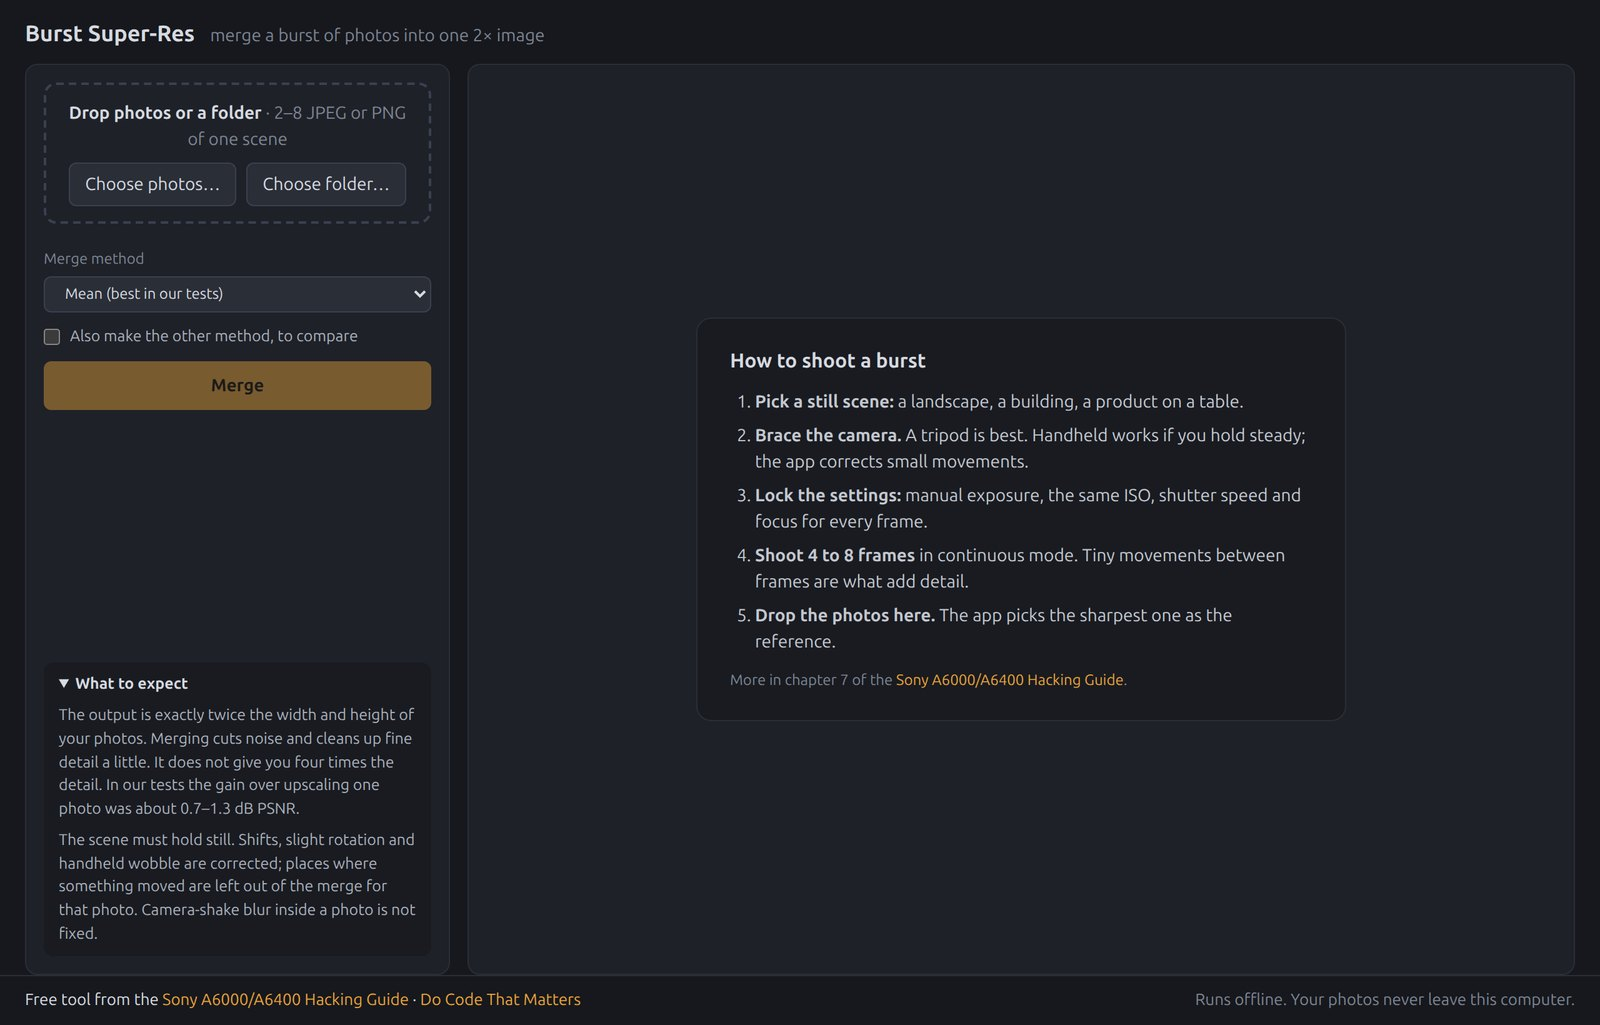
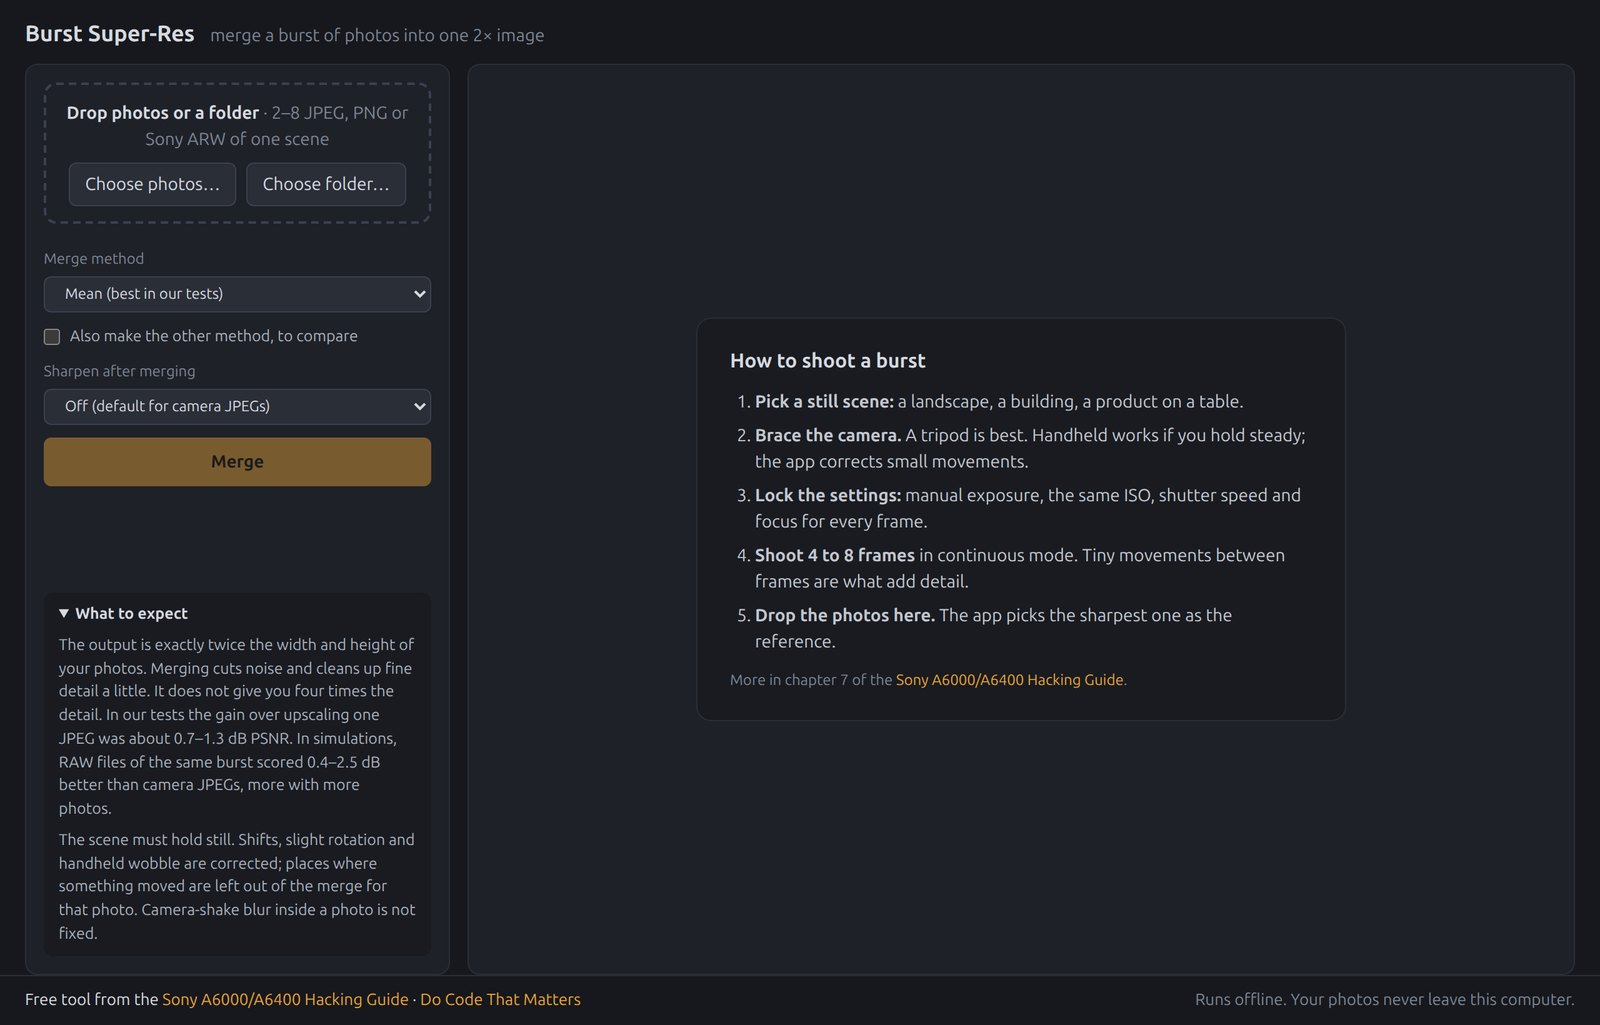
v0.3.0: RAW in README, sharpen/brightness/RAW measurements, screenshots

Changed region(s): [[0.0, 0.3434, 0.2812, 0.4995], [0.0312, 0.5932, 0.25, 0.8117], [0.0312, 0.0937, 0.25, 0.1561]]

diff --git a/tools/arw-encode.js b/tools/arw-encode.js
@@ -73,8 +73,7 @@ const full = RAW.demosaic(lin, info.width, info.height, info.cfa);
 const scene = { width: W, height: H, data: new Float32Array(W * H * 3) };
 if (args.scene) {
   // sRGB photo -> linear -> camera space (inverse of the file's matrix) -> raw units (inverse WB/levels), 85% of full scale
-  const { execFileSync } = require('child_process');
-  const ppm = execFileSync('djpeg', ['-pnm', args.scene], { maxBuffer: 1 << 30 }), m = ppm.subarray(0, 64).toString('latin1').match(/^P6\s+(\d+)\s+(\d+)\s+255\s/);
+  const ppm = require('child_process').execFileSync('djpeg', ['-pnm', args.scene], { maxBuffer: 1 << 30 }), m = ppm.subarray(0, 64).toString('latin1').match(/^P6\s+(\d+)\s+(\d+)\s+255\s/);
   const pw = +m[1], off = m[0].length;
   const M = info.colorMatrix, det = M[0] * (M[4] * M[8] - M[5] * M[7]) - M[1] * (M[3] * M[8] - M[5] * M[6]) + M[2] * (M[3] * M[7] - M[4] * M[6]);
   const Mi = [(M[4] * M[8] - M[5] * M[7]) / det, (M[2] * M[7] - M[1] * M[8]) / det, (M[1] * M[5] - M[2] * M[4]) / det,
@@ -97,6 +96,8 @@ const at = (x, y, c) => {
   return (1 - fy) * ((1 - fx) * d[o] + fx * d[o + 3]) + fy * ((1 - fx) * d[o + W * 3] + fx * d[o + W * 3 + 3]);
 };
 const fw = W / 2, fh = H / 2, cfa = info.cfa, range = info.white - info.black[0];
+const { execFileSync } = require('child_process');
+let previewExposure = null;
 const shifts = [[0, 0]];
 for (let k = 1; k < N; k++) shifts.push([(rand() * 2 - 1) * 3, (rand() * 2 - 1) * 3]);
 
@@ -120,10 +121,18 @@ for (let k = 0; k < N; k++) {
     vals[y * fw + x] = Math.min(16383, Math.max(0, Math.round(v + info.black[(y & 1) * 2 + (x & 1)])));
   }
   const strip = encodeSonyARW2(vals, fw, fh, info.toneCurve);
-  const file = new Uint8Array(src.length + strip.length);
-  file.set(src); file.set(strip, src.length);
+  // new embedded preview (like the camera's): this frame rendered, 1/2 size, JPEG
+  const tmpInfo = { ...info, rawWidth: fw, rawHeight: fh, width: fw, height: fh };
+  const pv = RAW.render(vals, tmpInfo, { exposure: previewExposure ?? (previewExposure = RAW.autoExposure(vals, tmpInfo, 110)) });
+  const half = SR.resampleRegion(pv, { scale: 0.5, width: fw >> 1, height: fh >> 1 });
+  const head = Buffer.from(`P6\n${half.width} ${half.height}\n255\n`), rgb = Buffer.alloc(half.width * half.height * 3);
+  for (let i = 0, j = 0; j < rgb.length; i += 4, j += 3) { rgb[j] = half.data[i]; rgb[j + 1] = half.data[i + 1]; rgb[j + 2] = half.data[i + 2]; }
+  const jpg = execFileSync('cjpeg', ['-quality', '85'], { input: Buffer.concat([head, rgb]), maxBuffer: 1 << 30 });
+  const file = new Uint8Array(src.length + strip.length + jpg.length);
+  file.set(src); file.set(strip, src.length); file.set(jpg, src.length + strip.length);
   setVal(file, sub.get(0x0100), fw); setVal(file, sub.get(0x0101), fh);
   setVal(file, sub.get(0x0111), src.length); setVal(file, sub.get(0x0117), strip.length);
+  setVal(file, ifd0.get(0x0201), src.length + strip.length); setVal(file, ifd0.get(0x0202), jpg.length);
   const name = path.join(outDir, `SYN_burst${k ? '_' + (k + 1) : ''}.ARW`);
   fs.writeFileSync(name, file);
   console.log(name, `shift ${sx.toFixed(3)}, ${sy.toFixed(3)} scene px`);

diff --git a/src/frontend/index.html b/src/frontend/index.html
@@ -61,8 +61,9 @@
       <summary>What to expect</summary>
       <p>The output is exactly twice the width and height of your photos. Merging cuts
         noise and cleans up fine detail a little. It does not give you four times the
-        detail. In our tests the gain over upscaling one JPEG was about 0.7–1.3&nbsp;dB PSNR;
-        RAW files of the same burst measured 1–3&nbsp;dB better than their JPEGs.</p>
+        detail. In our tests the gain over upscaling one JPEG was about 0.7–1.3&nbsp;dB PSNR.
+        In simulations, RAW files of the same burst scored 0.9–2.5&nbsp;dB better than
+        camera JPEGs.</p>
       <p>The scene must hold still. Shifts, slight rotation and handheld wobble are
         corrected; places where something moved are left out of the merge for that photo.
         Camera-shake blur inside a photo is not fixed.</p>

diff --git a/src/frontend/app.js b/src/frontend/app.js
@@ -12,7 +12,7 @@ const VERSION = '0.3.0';
 const GUIDE_URL = 'https://dctmlab.taila665d5.ts.net/';
 const SITE_URL = 'https://docodethatmatters.com/';
 const IMAGE_EXT = /\.(jpe?g|png|arw)$/i;
-const RAW_DIRECT_MIN = 4;          // raw bursts this size or larger merge straight from the sensor samples
+const RAW_DIRECT_MIN = 6;          // raw bursts this size or larger merge straight from the sensor samples (measured: tools/bench-raw.js)
 const MAX_PHOTOS = 8;
 const MAX_OUTPUT_PIXELS = 268e6;   // WebKit/Chromium canvas area limit
 const CHUNK = 3 * 1024 * 1024;     // bytes per bridge message when saving

diff --git a/README.md b/README.md
@@ -6,12 +6,15 @@
 
 *A real 8-shot A6000 burst of a canyon, dropped in as a folder. Every shot aligned to 0.22 px or better (5 of them with the handheld correction). Left of the slider: one photo upscaled 2x. Right: the mean of all 8.*
 
-- **Drop in photos or a whole folder.** JPEG or PNG, straight from the camera. A folder with several bursts gets a chooser.
+- **Drop in photos or a whole folder.** JPEG, PNG or Sony ARW (RAW), straight from the camera. A folder with several bursts gets a chooser.
+- **RAW merges from the sensor itself.** With 6 or more ARW files, every output pixel is built from the raw sensor samples of all photos, with no demosaicing in between. In simulations that scored 0.9 to 2.5 dB better than merging the same burst as camera JPEGs.
 - **Sub-pixel alignment, handheld too.** Shifts and slight rotation are corrected for the whole photo. When that is not enough (handheld parallax, lens distortion), a local correction aligns each 64 px area on its own.
 - **Bad photos are left out for you.** Each photo gets a badge: Good, Soft or Too far off. Photos that do not line up are unticked automatically; areas where something moved are left out of that photo.
 - **Exactly 2x per side.** Four 6000 x 4000 photos give one 12000 x 8000 image. The app shows real pixel dimensions, not a megapixel claim.
 - **Compare like a photo editor.** Split slider or side by side, a small map to move around, Mean vs Median, and Lightroom-style keys.
-- **Keeps your EXIF.** Camera, lens, date and exposure from the reference photo go into the saved JPEG.
+- **Keeps your EXIF.** Camera, lens, date and exposure from the reference photo go into the saved JPEG, for JPEG and RAW input.
+- **Optional sharpening after the merge.** A gentle deconvolution, off for camera JPEGs and automatic for RAW (it picks the amount that best predicts a photo left out of the merge).
+- **Brightness matching.** Exposure flicker between shots is measured per photo and colour and evened out before merging.
 - **Private and offline.** Your photos never leave your computer. No account, no upload, no nag screen.
 
 ## Download
@@ -102,7 +105,9 @@ Everything runs on your computer. The app makes no network requests except when 
 - **It does not remove camera shake blur.** A blurry photo stays blurry.
 - **It needs a small movement between shots.** If the photos are pixel-identical in position, merging only reduces noise. The app tells you when this happens.
 - **The gain is modest.** Expect less noise and cleaner fine edges. Do not expect 4x the detail. See the numbers below.
-- RAW files are not supported. Export JPEG or PNG first.
+- **RAW: Sony ARW only**, compressed or uncompressed (ARW 2.x). Sony's newer lossless-compressed ARW is not supported. Decoding is checked against LibRaw on one real ILCE-6000 file; I had no A6400 ARW to test. No real RAW *burst* was available, so RAW quality numbers are from simulated bursts (see below).
+- **RAW colour is a neutral render**, not Sony's look: camera white balance, Sony's colour matrix from the file, sRGB, a soft highlight shoulder, and an exposure matched to the camera's preview.
+- **Sharpening can hurt.** On in-camera-sharpened JPEGs, Auto measured 0.1 to 0.9 dB worse in simulation, which is why it is off by default for JPEG.
 - EXIF is copied to JPEG output only, not PNG.
 
 ## Measured results
@@ -172,6 +177,70 @@ Real photos, as measured by the app:
 
 Local alignment costs time: about 7 to 13 s per 24 MP photo that needs it (node, this machine).
 
+### Brightness matching, sharpening and RAW (v0.3)
+
+**Brightness matching.** Each photo gets a per-colour gain: the median, over 32 px blocks, of reference brightness / photo brightness, measured through the alignment (blocks near black or white, and areas the local correction rejected, are skipped). With `--gain 0.05` (each frame randomly ±5% brighter or darker):
+
+| Run | Estimated gains vs true | Mean, no matching | Mean, matched |
+|---|---|---|---|
+| a6400-s6-gain5 | 0.9862 vs 0.9856, 0.9998 vs 1.0004, 1.0491 vs 1.0498 | 39.04 dB | **39.87 dB** |
+| a6000land-s6-gain5 | 1.0470 vs 1.0471, 0.9863 vs 0.9866, 0.9649 vs 0.9651 | 34.54 dB | 34.55 dB |
+
+Gains are found to within 0.001. Without flicker it changes nothing (a6400-s2-noise2: 39.843 dB, a6000land-s2-noise2: 34.577 dB, both as before). On the real 8-shot canyon burst the measured gains were 0.992 to 1.003.
+
+**Sharpening (deconvolution).** After the merge, Richardson-Lucy with a 3-tap blur model ([1/4 1/2 1/4] per axis), 6 rounds, blended per pixel by local detail so flat areas keep the merged value. In strips, so memory stays small. How much it helps depends entirely on how the photos were blurred:
+
+| Simulated burst (4 frames) | Mean | Amount 0.5 | Amount 1 | Auto picked |
+|---|---|---|---|---|
+| A6000 landscape, sensor box only | 34.58 | **35.60** | 35.56 | 0.25 (35.19) |
+| A6000 landscape, + lens blur 0.7 px | 32.34 | 33.26 | **34.02** | 0.25 (32.80) |
+| A6000 landscape, point sampling (narrower than the model) | **30.96** | 30.38 | 29.36 | 0.25 (30.74) |
+| A6400 photo, sensor box only | 39.84 | **39.91** | 39.85 | 0 (39.84) |
+| One photo alone, landscape | 33.51 | 33.56 | 32.72 | |
+
+- It needs the burst: on one photo alone it gains nothing or loses.
+- "Auto" (hold-out: leave out the best-aligned photo, deblur the merge of the rest, check which amount predicts the left-out photo best) is conservative. It never picked a harmful amount except in the point-sampling case (-0.22 dB), which is narrower than any real sensor.
+- **Camera JPEGs are a problem for Auto.** They are sharpened in camera, so the left-out photo rewards copying that sharpening. In the RAW simulation below, Auto on sharpened JPEGs cost up to 0.9 dB (and 0.12 dB in the in-app test). So JPEG input defaults to Off. On the real canyon JPEG burst Auto picked Strong; I cannot score that without a ground truth, so it stays your choice:
+
+![The real canyon burst merged, without and with Strong sharpening](docs/media/sharpen-real-canyon.png)
+
+**RAW (Sony ARW).** The decoder reads Sony's 8-bit-per-pixel block code (11-bit values with 7-bit deltas, then Sony's tone curve) and decrypts the SR2 block for white balance, black and white levels and Sony's colour matrix. On a real ILCE-6000 ARW it matches LibRaw 0.21 on all 24,240,576 visible samples (`test/raw.test.js`, run with `ARW_SAMPLE=` pointing at an ARW). The render uses the Malvar-He-Cutler demosaic; against LibRaw's own AHD render of the same file it scores 36.9 dB.
+
+With 6 or more RAW photos the mean is built straight from the sensor samples: every output pixel gathers, per colour, the raw samples near its position in every photo (Gaussian weight, sigma 0.22 input px, on the true sub-pixel distance), the way Wronski et al. (2019) do it, with an isotropic kernel. With fewer photos, each RAW photo is demosaiced first and merged like a JPEG. Alignment always runs on demosaiced renders.
+
+`tools/bench-raw.js` simulates the sensor so there is a ground truth: a real photo, shifted, averaged over 2x2, put through an RGGB mosaic with shot and read noise. "JPEG" is what a camera would ship from the same mosaic: demosaic, sharpening (amount 0.6), JPEG quality 92. PSNR in dB, crop of 3000 x 2000 output px:
+
+| Run | Frames | One JPEG 2x | JPEG mean | RAW: demosaic, then mean (+ auto sharpening) | RAW: from sensor samples | Best RAW vs JPEG mean |
+|---|---|---|---|---|---|---|
+| land-s3-2f | 2 | 29.46 | 30.55 | **32.03** | 31.29 | +1.48 |
+| land-s3-4f | 4 | 29.46 | 31.09 | **32.36** | 32.07 | +1.27 |
+| land-s3-5f | 5 | 29.46 | 31.12 | **32.91** | 32.30 | +1.79 |
+| land-s5-5f | 5 | 29.46 | 31.13 | 32.68 | **33.16** | +2.03 |
+| land-s3-6f | 6 | 29.46 | 31.23 | 33.02 | **33.09** | +1.86 |
+| land-s5-6f | 6 | 29.45 | 31.25 | 33.03 | **33.72** | +2.48 |
+| land-s3-8f | 8 | 29.46 | 31.30 | 33.08 | **33.31** | +2.01 |
+| land-s3-8f-iso3 (3x noise) | 8 | 27.40 | 30.86 | 32.41 | **32.52** | +1.66 |
+| a6400-s3-4f | 4 | 35.91 | 38.77 | **40.16** | 40.16 | +1.40 |
+| a6400-s3-5f | 5 | 35.90 | 39.02 | 40.28 | **40.40** | +1.38 |
+| a6400-s3-8f | 8 | 35.90 | 39.48 | 40.54 | **41.29** | +1.81 |
+
+The sensor-sample merge loses or ties with 2 to 4 photos and wins from 6 (5 is mixed), so the app switches at 6. The raw results are in `docs/results/raw/`.
+
+**RAW end to end in the app.** `tools/arw-encode.js` writes real ARW files: Sony's compression (its decoder round trip on a real file differs on 20 of 387,072 samples, by up to 8 levels), the real file's metadata, and a new embedded preview. I built a 6-photo burst from a real JPEG scene, ran it through the app (`tinyjs dev`, drop the folder, merge, save PNG) and scored it with `tools/score-raw.js`. The "JPEG" burst is the app's own render of the same ARWs, sharpened 0.6, JPEG q92:
+
+| Input (same 6-photo burst) | In the app | PSNR vs scene |
+|---|---|---|
+| One RAW photo, demosaiced, 2x | | 32.23 dB |
+| 6 JPEGs, mean | 5.6 s | 32.45 dB |
+| 4 RAWs, demosaic then mean | 5.8 s | 32.62 dB |
+| 6 RAWs, from sensor samples | 9.4 s | **33.38 dB** |
+
+![6 camera-style JPEGs merged next to the same 6 RAW files merged from sensor samples](docs/media/raw-vs-jpeg.png)
+
+The burst was 2048 x 1344 per photo. With 4 copies of the real 24 MP ARW, the app took 65.5 s for a 12048 x 8048 merge and wrote all of this EXIF into the JPEG: Sony, ILCE-6000, the capture date, 1/60 s, f/3.5, ISO 3200, the lens, the output size, and "Burst Super-Res 0.3.0".
+
+![The app merging a 6-photo RAW burst](docs/media/app-raw-burst.jpg)
+
 ### How I found the steady burst
 
 I found the real burst in my Immich library. I searched for bursts: 732 groups of 3 or more Sony shots taken 3 s or less apart with identical settings. I ran the app's alignment on the first 4 frames of 348 groups (ISO 400 or lower, 4 or more shots). 302 of them were handheld, with more than 10 px of alignment error. One burst was steady: `20231228_122526.JPG` to `_13`. With version 0.1, frames `_4` to `_8` aligned to 0.18 px or better and frames 1 to 3 (moved up to 12.8 px) only to 0.33 to 0.62 px. With version 0.2 all 8 align to 0.22 px or better.
@@ -182,7 +251,7 @@ I also tried true shift-and-add: put every input pixel at its exact sub-pixel po
 
 ## How it works
 
-The math is in `src/frontend/sr-core.js`, with no dependencies. `exif.js` copies EXIF, `bursts.js` groups a folder into bursts.
+The math is in `src/frontend/sr-core.js`, with no dependencies. `raw.js` decodes and renders Sony ARW, `exif.js` reads and writes EXIF, `bursts.js` groups a folder into bursts.
 
 **Registration.**
 1. Convert each photo to luma and build an image pyramid (2x2 box downsampling). The finest level gets a light Gaussian blur (sigma 1). This reduces aliasing and the bias that bilinear interpolation gives Lucas-Kanade towards whole pixels.
@@ -196,6 +265,8 @@ The math is in `src/frontend/sr-core.js`, with no dependencies. `exif.js` copies
 **Merge.** For each output strip, render every photo through its warp onto the 2x grid with Lanczos-3. With a local correction, each 128-pixel column block uses the affine warp that matches the field at its centre. The affine resampling uses two separable passes (Catmull-Smith), so it is exact for affine warps and costs 12 taps per pixel, not 36. Then take the per-pixel mean (or median) of the photos that cover the pixel. Mean and median can come from the same pass, for the comparison.
 
 **Why the guide's pairwise blend is an option, not the default.** The guide upscales two photos, aligns them, blends them 50/50, and repeats in pairs. For 4 photos that is a mean, with rounding to 8 bits after each stage. For 3 photos it weights them 25/25/50, which is worse. The mean does the same work with exact weights for any count. The pairwise mode stays in the app so you can compare against the original method. It rounds half to even, like OpenCV.
+
+**Brightness, sharpening, RAW.** See [Brightness matching, sharpening and RAW](#brightness-matching-sharpening-and-raw-v03) above.
 
 **Reference frame.** The sharpest photo (highest variance of the Laplacian) is the reference, as in `image_utils.py`.
 
@@ -265,16 +336,18 @@ It adds the photos, merges, renders the compare view, saves, writes a report to 
 | macOS 15+ (universal) | Built by GitHub Actions (`tinyjs publish --universal`). Ad-hoc signed, not notarized. **Not tested.** |
 | Windows 10/11 x64 | Built by GitHub Actions (`tinyjs.cmd publish`). Not code-signed. **Not tested.** Check the Blob-URL worker and saving in WebView2 first. |
 
-Releases come from `.github/workflows/release.yml`. Push a tag like `v0.2.0` to build every platform (plus Linux AppImages) and publish them with checksums.
+Releases come from `.github/workflows/release.yml`. Push a tag like `v0.3.0` to build every platform (plus Linux AppImages) and publish them with checksums.
 
 The code uses no platform-only APIs. `Uint8Array.prototype.toBase64` has a fallback for older webviews.
 
 ## What is left
 
 - Test on macOS and Windows.
-- Shoot a real tripod burst on an A6400. The real bursts above are from the A6000.
+- Shoot a real tripod burst on an A6400, in RAW. The real bursts above are A6000 JPEGs, and the only real ARW I had was one A6000 photo.
+- Test an A6400 ARW, and add Sony's lossless-compressed ARW.
 - Speed: alignment and merge are single-threaded JS. Several workers (one per photo or strip range) or WebGL would make them faster; local correction is the slow part.
-- EXIF for PNG output, and RAW input.
+- EXIF for PNG output.
+- Detail-aware (edge-stretched) kernels for the sensor-sample merge, as in Wronski et al.; this version uses round ones.
 
 ## Credit
 

diff --git a/.github/release-notes.md b/.github/release-notes.md
@@ -1,5 +1,12 @@
 Merge a burst of photos of the same static scene into one image with twice the width and height. Free tool from the [Sony A6000/A6400 Hacking Guide](https://dctmlab.taila665d5.ts.net/).
 
+## New in 0.3.0
+
+- **Sony RAW (ARW).** Decoded in the app (checked against LibRaw on a real A6000 file). With 6 or more RAW photos the merge is built from the raw sensor samples of every photo. In simulations, RAW scored 0.9 to 2.5 dB better than the same burst as camera JPEGs. Only one real ARW was available for testing, so these RAW numbers are from simulated bursts.
+- **Sharpen after merging** (deconvolution): Off by default for camera JPEGs, Auto for RAW. Gentle, Medium and Strong are there to try.
+- **Brightness matching.** Exposure flicker between shots is evened out per photo and colour.
+- EXIF is kept for RAW input too.
+
 ## New in 0.2.0
 
 - **Handheld bursts.** A local correction aligns each 64 px area when one shift and rotation is not enough. A real handheld pair went from 4.36 px to 0.06 px of alignment error. Tripod bursts are unchanged.
